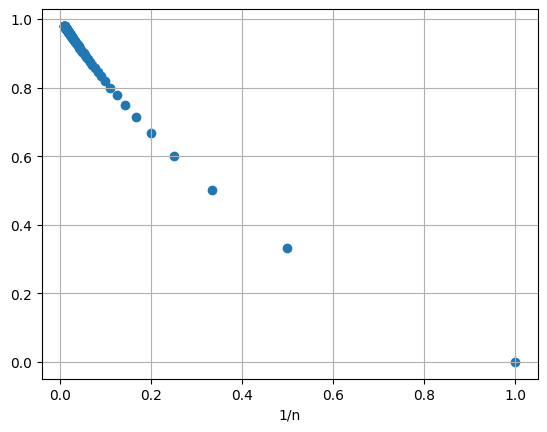
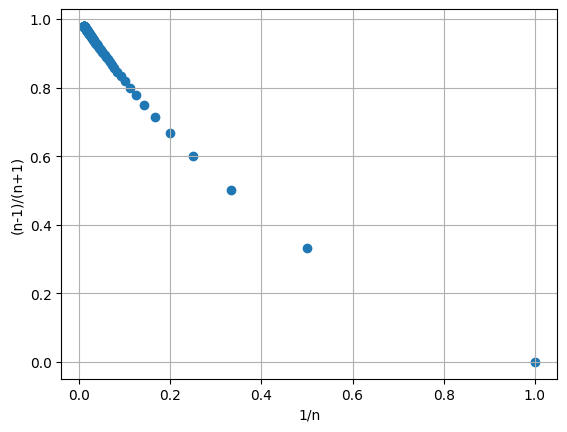
.

diff --git a/NSCI0005/python_book/html/searchindex.js b/NSCI0005/python_book/html/searchindex.js
@@ -1,1 +1,1 @@
-Search.setIndex({docnames:["1_introduction/cocalc","1_introduction/fundamentals","1_introduction/week_1","2_arrays_and_plots/arrays_and_plots","2_arrays_and_plots/arrays_and_plots_2","2_arrays_and_plots/hw_answers","2_arrays_and_plots/projectiles","3_sequences_series/hw4_9511","3_sequences_series/notes","4_taylor_series/hw_a81","4_taylor_series/notes","5_complex_numbers/hw_answers_6836","5_complex_numbers/notes","6_partial_differentiation/hw_oasdg883","6_partial_differentiation/notes","7_odes_1/hw_aitthsg45","7_odes_1/notes","8_odes_2/hw_510736","8_odes_2/notes","intro"],envversion:{"sphinx.domains.c":2,"sphinx.domains.changeset":1,"sphinx.domains.citation":1,"sphinx.domains.cpp":5,"sphinx.domains.index":1,"sphinx.domains.javascript":2,"sphinx.domains.math":2,"sphinx.domains.python":3,"sphinx.domains.rst":2,"sphinx.domains.std":2,"sphinx.ext.intersphinx":1,"sphinxcontrib.bibtex":9,sphinx:56},filenames:["1_introduction/cocalc.md","1_introduction/fundamentals.md","1_introduction/week_1.md","2_arrays_and_plots/arrays_and_plots.ipynb","2_arrays_and_plots/arrays_and_plots_2.md","2_arrays_and_plots/hw_answers.ipynb","2_arrays_and_plots/projectiles.ipynb","3_sequences_series/hw4_9511.ipynb","3_sequences_series/notes.ipynb","4_taylor_series/hw_a81.ipynb","4_taylor_series/notes.ipynb","5_complex_numbers/hw_answers_6836.ipynb","5_complex_numbers/notes.ipynb","6_partial_differentiation/hw_oasdg883.ipynb","6_partial_differentiation/notes.ipynb","7_odes_1/hw_aitthsg45.ipynb","7_odes_1/notes.ipynb","8_odes_2/hw_510736.ipynb","8_odes_2/notes.ipynb","intro.md"],objects:{},objnames:{},objtypes:{},terms:{"0":[1,3,4,5,6,7,8,9,10,11,12,14,15,16,17,18],"0000000000000002j":12,"0000000000000004":12,"00000000e":8,"00763947766738815":9,"01":8,"02":8,"03":8,"04":8,"05":8,"095":3,"0j":12,"0x194c22fd048":16,"0x1aa7ad067c8":8,"0x1ebde029448":11,"0x1f4dcda0308":12,"0x20725333748":15,"0x207253d4748":15,"0x7f042db6d450":[],"0x7f0d24e78cd0":[],"0x7f0d26fa13c0":[],"0x7f15d9bccd60":[],"0x7f15dbcad450":[],"0x7f27cdf11f90":[],"0x7f27cffd1450":[],"0x7f2b71d4cd00":[],"0x7f2b73e6d450":[],"0x7f552fddd450":8,"0x7f678168a6b0":[],"0x7f678373d450":[],"0x7f69f9fa1ff0":[],"0x7f69fc05d3f0":[],"0x7f6d05cbcd60":[],"0x7f6d07ddd450":[],"0x7f6d6a812aa0":17,"0x7f78a5142da0":4,"0x7f84d801a6b0":[],"0x7f84da091450":[],"0x7fb84a672260":[],"0x7fb84c6f1450":[],"0x7fc044a6eec0":[],"1":[0,1,3,4,5,6,7,8,9,11,12,13,14,15,16,18],"10":[1,3,4,5,6,8,14,15,16,18],"100":[0,5,6,7,8,9,10,13,14,17,18],"1000":16,"101":7,"10351562e":8,"11":[3,4,12],"113":3,"115":5,"12":[1,6],"121":3,"12500000e":8,"139":15,"13j":11,"14":4,"15":[3,4,5,8,15,16,18],"155":3,"16":[3,4,11,15],"17":[14,15],"18":4,"180":3,"19":1,"195":3,"197":3,"1a":7,"1b":7,"1c":7,"1j":[11,12],"2":[1,3,4,6,8,10,11,12,13,14,15,16,17,18],"20":[3,7,12,14,17],"200":[3,6],"20871215252208009":1,"21":[3,4],"210":5,"21j":11,"220":5,"22070312e":8,"23":3,"230":5,"24":[0,3,8],"25":[3,4],"25000000e":8,"258":5,"260":5,"262":5,"27":[1,4],"282":1,"2821881254169447":1,"299":1,"2e6":1,"2e9":6,"2m":18,"2x":18,"2y":14,"3":[1,3,4,5,6,7,9,10,12,13,14,15,17,18],"30":3,"305":3,"33333333":8,"34":1,"345":3,"35":[1,3],"365":6,"375":3,"38":3,"384":1,"39":6,"3j":11,"4":[0,1,3,5,6,7,8,10,12],"40":[3,17],"400":6,"4142135623730951":3,"42":3,"44":3,"44140625e":8,"4455":1,"45":[1,3],"46":5,"49":4,"4e6":1,"4mk":18,"5":[1,3,4,6,7,8,10,12,13,14,15,17,18],"50":[4,7,13,15],"500":7,"50000000e":8,"512":1,"52":3,"56":3,"56250000e":8,"5j":11,"5x":1,"6":[1,3,4,6,8,9,10,15],"60":1,"60j":12,"61":3,"63":1,"63e":1,"66666667":8,"69":3,"6e":1,"6i":12,"6j":12,"7":[3,4,6,8,10],"70":1,"7071067811865476":12,"7071067811865476j":12,"7071067811865477":12,"7071067811865477j":12,"71428571":8,"7172926344657":5,"71828":8,"72":8,"74":4,"75":[3,4,8,13],"76562500e":8,"77":3,"77777778":8,"8":[1,3,4,6,8,11,18],"80":18,"81":[3,4,5,6],"81250000e":8,"81818182":[],"83333333":[],"8369701987210297e":[3,4],"84615385":[],"85":1,"855":3,"85714286":[],"85e":1,"86666667":[],"875":8,"88235294":[],"88281250e":8,"88888889":[],"89":3,"89473684":[],"8e6":1,"9":[1,3,4,5,6,8,15],"9047619":[],"90625000e":8,"90909091":[],"91304348":[],"91666667":[],"92":3,"92307692":[],"92592593":[],"92857143":[],"93103448":[],"93333333":[],"93548387":[],"9375":8,"93939394":[],"94117647":[],"94285714":[],"94444444":[],"94594595":[],"94736842":[],"94871795":[],"95":[],"95121951":[],"95238095":[],"95312500e":8,"95348837":[],"95454545":[],"95555556":[],"95652174":[],"95744681":[],"95833333":[],"95918367":[],"96":3,"96078431":[],"96153846":[],"96226415":[],"96296296":[],"96363636":[],"96428571":[],"96491228":[],"96551724":[],"96610169":[],"96666667":[],"96721311":[],"96774194":[],"96825397":[],"96875":8,"96923077":[],"96969697":[],"97014925":[],"97058824":[],"97101449":[],"97142857":[],"97183099":[],"97222222":[],"97260274":[],"97297297":[],"97333333":[],"97368421":[],"97402597":[],"97435897":[],"97468354":[],"975":[],"97530864":[],"97560976":[],"97590361":[],"97619048":[],"97647059":[],"97674419":[],"97701149":[],"97727273":[],"97752809":[],"97777778":[],"97802198":[],"97826087":[],"97849462":[],"9787234":[],"97894737":[],"97916667":[],"97938144":[],"97959184":[],"97979798":[],"98":[],"984375":8,"99":1,"9921875":8,"99609375":8,"99804688":8,"99902344":8,"99951172":8,"99975586":8,"99987793":8,"99993896":8,"\u03b1":1,"case":[1,4],"class":12,"do":[0,1,3,4,6,12],"final":[0,4,6,12,16],"float":[0,3,4],"function":[1,3,4,6,8,10,12,14],"import":[3,5,6,7,8,9,10,11,12,13,14,15,16,17,18],"long":[0,1],"new":[0,6,8],"return":[0,3,4,8],"try":[3,4,8,12,14],A:[0,1,3,4,5,6,10,12,14,16,17,18,19],And:14,As:[3,8],At:[3,16],By:[0,3,4,5,6,10,14,18],For:[0,1,3,4,6,8,10,12,14],If:[0,1,3,4,8,18],In:[1,3,4,8,12,16],It:1,No:[],On:18,One:4,That:[6,16],The:[0,1,3,4,6,8,10,12,14,16,18],Then:[1,3,6,8,16,18],To:[0,1,3,4,6,8],_:1,__counter__:6,__main__:15,__name__:15,a_n:8,abl:[0,1,3,4,8],about:0,abov:[5,6,18],absolu:6,ac:0,acceler:[3,5,6],accept:5,access:[0,3,4,8],accord:5,account:0,accur:[3,5],achiev:6,ad:[0,1,8],add:[0,4,6],addit:[1,3,4,12],address:0,ae:16,after:[0,1,3,4,8,10],ag:1,again:[3,4],against:[1,3,6,8,18],air:5,alia:4,alias:4,align:[3,6,18],all:[0,8,12],allow:[0,3,4,18],alpha:1,alphabet:1,alreadi:0,also:[0,3,4,6,8,18],alwai:[0,12],an:[0,1,3,4,5,6,8,10,12,14,16,18],angl:[5,15,16,18],ani:[0,1,3,4,5,6,16],anoth:[6,12,14,18],answer:[1,4,6,12],anyth:12,appdata:[9,15],appear:[0,1,8],appli:[3,4],appropri:8,approx:[6,8],approxim:[5,10],ar:[0,1,3,4,6,8,12,16,18],arang:[4,6,7,8],arbitrari:[16,18],argand:12,argument:[4,12],arithmet:[3,4],around:6,arrai:[5,8,10,16,18],arrays_and_plot:[3,4],arrow:[0,15,16,18],ask:0,assig:1,assum:6,astronomynot:6,attent:1,attribut:8,attributeerror:8,automat:[0,3,4],avoid:1,awai:0,ax:[4,6,11,12],axhlin:[11,12],axi:[3,5,6,8,10,11,12,16],axvlin:[11,12],b:[1,3,4,6,7,16,17,18],base:[3,4,8],basic:4,becaus:[0,1,3,4,12,16],been:0,befor:[0,1,4,8,12],begin:[1,3,4,6,18],behaviour:8,below:[0,6,8,16],beta:18,better:[3,4,10],between:[0,3,4,5,6],bidma:1,black:[0,11,12],blue:[0,18],bodi:6,book:19,border:0,both:[3,4],bottom:[0,3,4],bracket:[1,4],braket:4,built:4,button:[0,3,4],c:[1,4,9,15],calcul:[1,3,4,6,8,10,12,13,14,18],call:[0,1,3,4,6,8,12],calul:6,can:[0,1,3,4,5,6,8,10,12,14,18],cannon:[3,6],cannot:1,care:4,carri:[1,3,4],cartesian:12,caus:[1,14],cdot:[8,10],cell:[0,1,3,8,12],certainli:8,chang:[0,3,4,6],chapter:4,charact:1,charg:1,check:[1,3,4,6,8,16],choic:4,choos:[0,6],circl:12,circular:6,cla:6,clabel:[13,14],clear:8,clearer:8,click:[0,1,3,4],close:[3,4,6],cloud:0,co:[3,4,5,6,17,18],cocalc:[1,2,3,4],code:[0,1,3,4,5,6,8,10,12,14,18],coeffici:18,collect:[4,8,11,12],color:[11,12],com:[0,6],combin:0,comfort:0,comma:1,command:[0,4],common:[3,4],compar:14,complet:[0,1,3,4,6,8],compris:18,comput:[0,1,4],condit:18,consid:[3,4,8,16],constant:[1,3,4,5,6,16,18],construct:[3,4,6],contain:[0,1,3,4,6,19],continu:0,contour:[13,14],control:1,conveni:4,converg:8,convincingli:8,coordin:[4,5,6,12,16],copi:[0,6],corner:0,correct:5,correctli:5,could:6,cours:[0,4],creat:[0,1,6,8,12,16],cross:4,cs:[13,14],cube:12,cubic_graph:0,cumsum:[7,8],cumul:8,current:0,curv:[0,4,14,16,18],customari:4,customis:4,cut:8,d:[4,6,16,18],dai:6,damp:18,data:[3,4],datapoint:4,decim:4,deduct:5,def:[4,6],defin:[1,3,4,8,12,14,18],definit:[3,4],degre:4,delet:0,denot:12,deriv:16,describ:4,descript:[0,1],detail:6,determin:[1,4,5,12,14],devic:6,di:1,di_by_dt:17,diagram:12,diamet:6,differ:[0,1,4,5,8],dimens:[3,14],direct:[16,18],directli:[0,12],displac:18,displai:[1,3,6,14],displaystyl:[12,16],distanc:[1,5],divid:[9,15],divis:[1,12],doe:[1,3,4,14],doesn:[8,12],don:[0,14],done:[3,4],doubl:1,double_spe:1,down:0,draft:[3,4],dropdown:[3,4],due:[3,5,6],dv_by_dt:18,dx:[15,16],dx_by_dt:18,dy:[15,16],e:[1,3,4,7,8,12,18],each:[1,3,4,5,6,13,14,16,18],earth:[1,6],easi:[8,12],easier:8,either:[3,4],electr:1,element:[3,8],elementari:1,els:12,elsewher:4,email:0,empti:0,encount:[9,15],end:[0,3,4,6,18],endpoint:4,ensur:16,enter:[0,1,3,4],epsilon_0:1,epsilon_0hc:1,equal:[4,6,11,12,16],equat:[1,3,4,6],error:[5,6],esc:0,especi:[3,6],essenti:0,estim:[3,4,6],evalu:[1,12],even:12,evenli:[3,4,6],ever:4,everi:[0,8,12],everyth:[3,4],exact:6,exactli:[3,4],examin:8,exampl:[0,3,4,6,8,10,12,16],except:3,execut:[1,5],exp:[3,4,5,7,11,12,15,16,17],expect:[0,8],experi:[0,4,14],explain:12,explicit:8,explor:0,expon:1,exponent:12,express:[3,4,12],extens:[0,4,8],extract:12,extrem:[3,4],f1:10,f2:10,f3:10,f4:10,f:[9,10,14,16],fact:[3,4],factor:16,factori:7,far:[3,6],featur:0,few:8,fifteen:16,fig:[0,6,13,14],figsiz:[3,6,9,13,14],figur:[0,1,3,6,9,11,12,13,14,17],file:[0,1,6],filenam:6,find:[5,6,16,18],fine:1,finit:[8,10],fire:[3,6],first:[0,1,3,4,6,8,10,18],first_solut:1,firstli:3,firstnam:0,flow:16,fm:1,folder:[0,1,8],follow:[0,1,3,4,5,6,10,12,16],form:[0,12,16],format:0,formula:[1,8],found:[3,4,6],four:3,frac:[1,3,4,6,8,10,12,16,18],fraction:8,frame:6,free:1,from:[0,1,3,4,6,8,14,16,18],funcanim:6,fundament:2,further:[4,5],g:[3,5,6],ganim:6,gather:4,gca:[11,12],gener:[0,1,3,4,6,14,16,18],get:[0,1,6,8,12],gif:6,give:[3,18],given:[1,3,4,6,8,12,16,18],goal:6,good:[1,8],graph:[0,3,4,5,6,8,12,16,18],graviti:[3,5,6],greek:1,green:0,grid:[8,11,12,16,18],ground:[3,5,6],grow:4,gt:[3,6],h:1,ha:[0,3,8,14,16,18],habit:[1,8,12],hand:[0,4],handi:8,happen:[1,3,4],have:[0,4,6,8,18],heavenli:6,height:[3,6],help:[0,1,3],here:[3,4,5,6],high:4,hint:[1,8],hit:[3,5],home:[3,4],homework:7,horizont:[3,6],host:0,how:[1,3,4,6,12],howev:5,htm:6,html:6,http:6,hyperbol:14,i:[12,17],i_0:17,i_app:17,idea:1,ignor:1,illustr:[3,6],imag:[11,12],imagemagick:6,imaginari:12,img:6,immedi:0,includ:[0,4,5,6,8,10,12],incorrectli:6,increas:[3,8],inde:8,indic:0,individu:0,infinit:10,inform:[0,5],infti:8,initi:[3,5,6,18],input:[4,14],inspect:0,instead:[0,8,12],instruct:[3,5,16],instructor:0,integr:16,interest:6,interpret:1,interv:[4,6],introduc:[3,4,6,18],invert:6,investig:8,ipykernel_launch:[9,15],ipynb:[0,1,3,4],ipython:[0,6],its:[0,6,8,10,12],iy:12,j:12,jhz:1,jupyt:[0,3,4],just:[0,6],k:[16,18],keep:[3,4],kei:[0,6],kernel:[3,4],keyword:4,kg:18,known:0,kx:18,ky:16,l:16,label:[3,4,6],languag:[0,1,3,4],larg:[1,8],last:[3,6,8,12,18],lastnam:0,later:1,latter:[3,4],launch:5,ldot:[8,12],left:[0,8,12,16,18],len:6,length:[6,15,16],leq:18,less:[6,8],let:[0,4,6,8,12,16,18],level:[13,14],li:4,lib:[9,15],librari:[0,3,8,12],licens:0,lie:12,light:1,like:[0,1,3,4,6,12],lim_:8,limit:[3,5,6,8,10,11,12,13,14,16],line2d:[4,15,17],line:[0,1,3,4,6,8,12,14,15,16,17],link:[0,6],linspac:[0,3,4,5,6,9,10,13,14,15,16,17,18],linux:0,list:[0,3,4,13,14],liter:1,littl:6,ll:[3,4,6],ln:[3,4],load:3,local:[9,14,15],locat:[1,4],log10:[3,4],log:[0,3,4,9,15],logarithm:[3,4],logist:[4,16],look:[1,12],lot:8,lower:[4,5],m:[1,3,5,6,18],mai:[0,4],main:4,make:[6,8,12],mani:4,mantissa:1,map:14,mark:5,markdown:0,mass:18,materi:19,mathbb:14,mathemat:[1,3,4,12,19],mathrm:[1,3,5,6,16,18],matplotlib:[3,5,6,7,8,9,10,11,12,13,14,15,16,17,18],mechan:[3,6],memori:1,menu:0,mercuri:6,meshgrid:[13,14,15,16,18],mess:0,method:[3,4],metr:[3,6],might:1,million:1,minimum:14,mode:0,model:[3,6],modul:8,modulenotfounderror:[],modulu:12,moon:[1,6],more:[1,4,6,8,10],most:[3,4,8,12,14],motion:[3,6],mous:0,move:0,ms:1,mu:5,much:0,multipl:[1,3,4,12],multipli:[3,8],must:[0,12],n:[6,7,8,12,18],name:[0,3,4,12],nameerror:12,natsciteach:[9,15],natur:[3,4,19],navig:0,nb:5,nearest:6,necessari:5,need:[0,3,4,6,8],never:8,next:[0,3,4,6,10,12,16],note:[1,3,4,12],notebook:[1,3,4,6,8,12],noth:1,now:0,np:[0,3,4,5,6,7,8,9,10,11,12,13,14,15,16,17,18],nsci0005:[0,19],num:3,number:[1,3,4,6,8,10],numer:[1,3],numpi:[5,6,7,8,9,10,11,12,13,14,15,16,17,18],object:[3,6,13,14],obtain:[3,4],od:18,often:1,omega:[17,18],onc:4,one:[1,3,4,6,8,12,18],ones:[15,16],onli:[1,4],onlin:0,open:[0,1,3,4,6],oper:[0,1,3,4,12],operand:[3,4],option:0,orang:18,orbit:6,order:[1,5,18],ordinari:0,organis:[0,3,4],other:[1,3,4],our:[1,6],out:[1,3,4],output:[1,14],own:0,p:[4,6],packag:[6,9,15],page:1,pai:1,pair:14,paraboloid:14,paramet:[4,6,14],part:[1,12],partial:8,pass:4,past:0,pathcollect:[8,11,12],pattern:12,perform:[1,3,4],period:[6,18],permitt:1,person:0,physic:[1,3,6],pi:[0,3,4,5,6,10,11,12],pie:3,place:4,planck:1,planet:6,platform:0,plot:[0,5,6,8,9,10,11,14,15,16,17,18],plt:[0,3,4,5,6,7,8,9,10,11,12,13,14,15,16,17,18],point:[3,4,6,8,14,16,18],portion:4,posit:[3,6,18],power:[1,12],practic:[3,4],pre:0,prefix:4,preinstal:0,press:0,previou:12,previous:3,print:[3,4,6,8,12],probabl:4,problem:[3,8,14],produc:4,program:[0,1,3,4,6,9,15],project:[0,1],projectil:5,prompt:[3,4],pronounc:3,prove:8,provid:4,put:0,py:[9,15],pyplot:[3,4,5,6,7,8,9,10,11,12,13,14,15,16,17,18],python37:[9,15],python:[0,1,3,4,5,6,8,9,10,12,15,16,19],quadrat:1,quantiti:1,question:12,quickest:12,quit:8,quiver:[15,16,18],quot:1,r:[4,14],radian:5,radiu:12,ran:0,randint:6,random:6,rang:[10,16],rather:[0,8],re:[0,3,4,6],reach:[1,6],read:0,reader:1,readi:[3,4],real:[8,11,12],recal:8,recent:[8,12],recognis:4,red:0,reduc:4,regular:1,rel:6,relationship:6,releas:18,remain:16,remaind:3,remov:14,repeatedli:5,repres:[1,6,18],represent:16,request:0,requir:6,resist:5,respect:6,restrict:[4,10],result:[0,1,3,4,5],rewrit:18,right:[8,12,16,18],root:[3,4],rough:4,run:[0,1,3,6],runtimewarn:[9,15],s:[0,1,3,4,5,6,8,12,14,16,18],saddl:14,same:[3,18],satisfi:18,save:6,scale:4,scatter:[6,7,8,11,12],scienc:19,scientif:[3,4],scientist:4,scipi:[7,8],secnd_solut:1,second:[1,3,6,18],section:[0,1,3,6,8,12],see:[0,4,6,8],segment:16,select:[0,3,4],sens:8,sensit:1,separ:[1,3,4,6],seprat:4,sequenc:[3,4,6],set:[0,1,3,5,6,11,12,13,14,16],set_aspect:[11,12],setup:0,shape:[4,15,16],sheet:[3,8,14],shift:0,should:[0,1,3,4,5,6,8,12],show:[0,4,8,14,18],shown:[5,6],signific:1,similar:[0,18],simpl:[3,6],simplifi:1,simul:[3,6],sin:[0,5,6,10,17,18],sinc:[1,8,12],sine:0,singl:[0,1,3,4],site:[0,9,15],size:[4,8],sketch:[4,16],slowli:8,small:[1,16],so:[0,1,4,5,6,8],softwar:[0,3],solar:6,solut:7,solv:16,some:[0,1,8,16],someth:[0,3,4],somewher:4,sp:[7,8],space:[1,3,4,6],special:[7,8],specifi:[4,6],speed:[1,3,5,6],split:0,spring:18,sqrt:[1,3,4,6,7,9,12,15,17,18],squar:[3,4,12],src:6,standard:4,start:[0,1,3,4,6,8],statement:[1,4,8,12],stationari:[14,18],step:[3,4,6,8],stick:1,storag:1,store:[3,4],str:6,straight:[0,12],structur:1,student:[0,5],studi:6,style:4,submiss:5,submit:5,substitut:[16,18],subtract:[1,12],suggest:16,suitabl:[4,5,6],sum:[8,10],sum_:8,sun:6,support:[1,5],suppos:[1,4,8,12,18],sure:[6,12],surfac:14,symbol:[1,12],system:[0,3,4,6,18],t0:4,t1:9,t3:9,t:[0,1,3,4,5,6,8,12,14,17,18],t_0:4,tabl:6,tablesb:6,take:[1,3,4],task:6,taylor:10,term:[8,10],text:[0,1,3,4,7,9,13,14,18],than:[0,1,4,6,8],them:6,therefor:4,theta:5,thi:[0,1,3,4,5,6,8,12,14,16,19],think:12,three:[1,3,14],time:[0,1,3,6,8,18],titl:[0,5,6,18],toolbar:0,top:[0,3,4,8,12],traceback:[8,12],trajectori:[3,6,18],travel:[1,3],trial:[5,6],true_divid:[9,15],truncat:10,turn:0,two:[0,1,3,4,6,8,10,12,16,18],type:[0,3,4,12],u:12,ucl:0,uk:0,undamp:18,under:[3,6],underneath:1,underscor:1,understand:[0,1,8,14],undo:0,unlik:6,until:[6,8],up:[0,11,12],upper:[3,4,8],us:[1,2,5,6,8,10,12,14,16,18],user:[9,15],usual:12,v0:5,v:18,v_0:[3,6],v_0t:[3,6],valu:[1,3,4,5,6,8,10,12,13,14,16,18],variabl:[3,4,6,12,18],varieti:3,variou:12,ve:8,vector:[3,4,18],veloc:[3,6,18],venu:6,veri:[1,4,8],verifi:4,virtual:0,visual:16,visualis:14,w:[11,12],wai:[10,12,14],want:[3,4,12],we:[0,1,3,4,5,6,8,10,12,14,16,18],web:0,week:[0,1,3,4,7,8,14],well:[3,4,10],were:1,wh:[],what:[12,14],when:[0,1,3,4,12],where:[1,4,6,8,16,18],which:[0,1,3,4,6,8,12,14,18],whichev:[3,4],whole:[4,6,8],whose:16,wide:[3,4],width:4,wikipedia:1,within:[0,3,4],won:6,work:[1,3,4,8,12],worksheet:12,workshop:[0,3,4],worri:[0,14],would:[0,1,6,12],write:[1,3,6,10],writer:6,written:0,www:[0,6],x0:[13,14],x:[0,1,3,4,5,6,7,8,9,10,12,13,14,15,16,18],x_mercuri:6,xlabel:[3,4,5,6,7,8,9,18],xlim:[4,5,6,11,12],xy:[15,16,18],y0:[13,14],y1:[15,16],y2:[15,16],y3:16,y:[0,3,4,5,6,8,10,12,13,14,15,16],y_0:[3,6],y_mercuri:6,yet:0,ylabel:[3,4,5,7,9,18],ylabl:8,ylim:[4,5,6,10,11,12,16],you:[4,5,6,12,14],your:[0,1,4,5,6,12,14],z0:11,z1:11,z2:11,z3:11,z:[1,12,13,14],z_2:12,z_3:12,z_4:12,zero:[3,4,6,9,15],zoom:[4,5]},titles:["<span class=\"section-number\">1.1. </span>Using CoCalc","<span class=\"section-number\">1.2. </span>Fundamentals","<span class=\"section-number\">1. </span>Introduction to Computing","<span class=\"section-number\">2. </span>Arrays and Plotting","Arrays and plots","Week 2 Homework Answers","Projectiles","&lt;no title&gt;","<span class=\"section-number\">3. </span>Sequences and Series","Week 5 Homework Solutions","Power Series","Week 3 Homework Solutions","Complex Numbers","Week 6 Homework Solutions","Multivariable Calculus","Week 7 Homework Solutions","Differential Equations I","Week 8 Homework Solutions","Differential Equations II","Introduction"],titleterms:{"2":5,"3":[8,11],"5":9,"6":13,"7":[15,18],"8":17,"import":4,"new":[3,4],anim:6,answer:5,arithmet:[1,12],arrai:[3,4,6],axi:4,calculu:14,cocalc:0,comment:1,complex:12,comput:2,creat:[3,4],differenti:[16,18],edit:0,equat:[16,18],exampl:1,exercis:[3,4,6,8,10,12,14,16,18],express:1,factori:8,field:16,file:[3,4],folder:[3,4],fun:6,fundament:1,further:[3,8],homework:[5,9,11,13,15,17],i:16,ii:18,initi:0,introduct:[2,19],keyboard:0,learn:[0,1,3,8],librari:4,limit:4,matplotlib:4,multivari:14,name:1,notat:1,notebook:0,number:12,numer:4,numpi:[3,4],option:6,orreri:6,phase:18,plane:18,plot:[3,4,12],power:10,practic:1,print:1,problem:18,projectil:[3,6],question:[1,18],rang:4,rule:1,scientif:1,see:18,sequenc:8,seri:[8,10],set:4,shortcut:0,slope:16,solut:[1,3,4,6,8,9,10,11,12,13,14,15,16,17,18],step:0,thi:18,us:[0,3,4],variabl:1,virtual:6,week:[5,9,11,13,15,17,18],what:[0,1,3,8],you:[0,1,3,8]}})
+Search.setIndex({docnames:["1_introduction/cocalc","1_introduction/fundamentals","1_introduction/week_1","2_arrays_and_plots/arrays_and_plots","2_arrays_and_plots/arrays_and_plots_2","2_arrays_and_plots/hw_answers","2_arrays_and_plots/projectiles","3_sequences_series/hw4_9511","3_sequences_series/notes","4_taylor_series/hw_a81","4_taylor_series/notes","5_complex_numbers/hw_answers_6836","5_complex_numbers/notes","6_partial_differentiation/hw_oasdg883","6_partial_differentiation/notes","7_odes_1/hw_aitthsg45","7_odes_1/notes","8_odes_2/hw_510736","8_odes_2/notes","intro"],envversion:{"sphinx.domains.c":2,"sphinx.domains.changeset":1,"sphinx.domains.citation":1,"sphinx.domains.cpp":5,"sphinx.domains.index":1,"sphinx.domains.javascript":2,"sphinx.domains.math":2,"sphinx.domains.python":3,"sphinx.domains.rst":2,"sphinx.domains.std":2,"sphinx.ext.intersphinx":1,"sphinxcontrib.bibtex":9,sphinx:56},filenames:["1_introduction/cocalc.md","1_introduction/fundamentals.md","1_introduction/week_1.md","2_arrays_and_plots/arrays_and_plots.ipynb","2_arrays_and_plots/arrays_and_plots_2.md","2_arrays_and_plots/hw_answers.ipynb","2_arrays_and_plots/projectiles.ipynb","3_sequences_series/hw4_9511.ipynb","3_sequences_series/notes.ipynb","4_taylor_series/hw_a81.ipynb","4_taylor_series/notes.ipynb","5_complex_numbers/hw_answers_6836.ipynb","5_complex_numbers/notes.ipynb","6_partial_differentiation/hw_oasdg883.ipynb","6_partial_differentiation/notes.ipynb","7_odes_1/hw_aitthsg45.ipynb","7_odes_1/notes.ipynb","8_odes_2/hw_510736.ipynb","8_odes_2/notes.ipynb","intro.md"],objects:{},objnames:{},objtypes:{},terms:{"0":[1,3,4,5,6,7,8,9,10,11,12,14,15,16,17,18],"0000000000000002j":12,"0000000000000004":12,"00000000e":8,"00763947766738815":9,"01":8,"02":8,"03":8,"04":8,"05":8,"095":3,"0j":12,"0x194c22fd048":16,"0x1aa7ad067c8":[],"0x1ebde029448":11,"0x1f4dcda0308":12,"0x20725333748":15,"0x207253d4748":15,"0x7f042db6d450":[],"0x7f0d24e78cd0":[],"0x7f0d26fa13c0":[],"0x7f15d9bccd60":[],"0x7f15dbcad450":[],"0x7f27cdf11f90":[],"0x7f27cffd1450":[],"0x7f2b71d4cd00":[],"0x7f2b73e6d450":[],"0x7f552fddd450":[],"0x7f66b1e9a560":8,"0x7f66b3f4d420":8,"0x7f678168a6b0":[],"0x7f678373d450":[],"0x7f69f9fa1ff0":[],"0x7f69fc05d3f0":[],"0x7f6d05cbcd60":[],"0x7f6d07ddd450":[],"0x7f6d6a812aa0":17,"0x7f78a5142da0":4,"0x7f84d801a6b0":[],"0x7f84da091450":[],"0x7fb84a672260":[],"0x7fb84c6f1450":[],"0x7fc044a6eec0":[],"1":[0,1,3,4,5,6,7,8,9,11,12,13,14,15,16,18],"10":[1,3,4,5,6,8,14,15,16,18],"100":[0,5,6,7,8,9,10,13,14,17,18],"1000":16,"101":7,"10351562e":8,"11":[3,4,12],"113":3,"115":5,"12":[1,6],"121":3,"12500000e":8,"139":15,"13j":11,"14":4,"15":[3,4,5,8,15,16,18],"155":3,"16":[3,4,11,15],"17":[14,15],"18":4,"180":3,"19":1,"195":3,"197":3,"1a":7,"1b":7,"1c":7,"1j":[11,12],"2":[1,3,4,6,8,10,11,12,13,14,15,16,17,18],"20":[3,7,12,14,17],"200":[3,6],"20871215252208009":1,"21":[3,4],"210":5,"21j":11,"220":5,"22070312e":8,"23":3,"230":5,"24":[0,3,8],"25":[3,4],"25000000e":8,"258":5,"260":5,"262":5,"27":[1,4],"282":1,"2821881254169447":1,"299":1,"2e6":1,"2e9":6,"2m":18,"2x":18,"2y":14,"3":[1,3,4,5,6,7,9,10,12,13,14,15,17,18],"30":3,"305":3,"33333333":8,"34":1,"345":3,"35":[1,3],"365":6,"375":3,"38":3,"384":1,"39":6,"3j":11,"4":[0,1,3,5,6,7,8,10,12],"40":[3,17],"400":6,"4142135623730951":3,"42":3,"44":3,"44140625e":8,"4455":1,"45":[1,3],"46":5,"49":4,"4e6":1,"4mk":18,"5":[1,3,4,6,7,8,10,12,13,14,15,17,18],"50":[4,7,13,15],"500":7,"50000000e":8,"512":1,"52":3,"56":3,"56250000e":8,"5j":11,"5x":1,"6":[1,3,4,6,8,9,10,15],"60":1,"60j":12,"61":3,"63":1,"63e":1,"66666667":8,"69":3,"6e":1,"6i":12,"6j":12,"7":[3,4,6,8,10],"70":1,"7071067811865476":12,"7071067811865476j":12,"7071067811865477":12,"7071067811865477j":12,"71428571":8,"7172926344657":5,"71828":8,"72":8,"74":4,"75":[3,4,8,13],"76562500e":8,"77":3,"77777778":8,"8":[1,3,4,6,8,11,18],"80":18,"81":[3,4,5,6],"81250000e":8,"81818182":[],"83333333":[],"8369701987210297e":[3,4],"84615385":[],"85":1,"855":3,"85714286":[],"85e":1,"86666667":[],"875":8,"88235294":[],"88281250e":8,"88888889":[],"89":3,"89473684":[],"8e6":1,"9":[1,3,4,5,6,8,15],"9047619":[],"90625000e":8,"90909091":[],"91304348":[],"91666667":[],"92":3,"92307692":[],"92592593":[],"92857143":[],"93103448":[],"93333333":[],"93548387":[],"9375":8,"93939394":[],"94117647":[],"94285714":[],"94444444":[],"94594595":[],"94736842":[],"94871795":[],"95":[],"95121951":[],"95238095":[],"95312500e":8,"95348837":[],"95454545":[],"95555556":[],"95652174":[],"95744681":[],"95833333":[],"95918367":[],"96":3,"96078431":[],"96153846":[],"96226415":[],"96296296":[],"96363636":[],"96428571":[],"96491228":[],"96551724":[],"96610169":[],"96666667":[],"96721311":[],"96774194":[],"96825397":[],"96875":8,"96923077":[],"96969697":[],"97014925":[],"97058824":[],"97101449":[],"97142857":[],"97183099":[],"97222222":[],"97260274":[],"97297297":[],"97333333":[],"97368421":[],"97402597":[],"97435897":[],"97468354":[],"975":[],"97530864":[],"97560976":[],"97590361":[],"97619048":[],"97647059":[],"97674419":[],"97701149":[],"97727273":[],"97752809":[],"97777778":[],"97802198":[],"97826087":[],"97849462":[],"9787234":[],"97894737":[],"97916667":[],"97938144":[],"97959184":[],"97979798":[],"98":[],"984375":8,"99":1,"9921875":8,"99609375":8,"99804688":8,"99902344":8,"99951172":8,"99975586":8,"99987793":8,"99993896":8,"\u03b1":1,"case":[1,4],"class":12,"do":[0,1,3,4,6,12],"final":[0,4,6,12,16],"float":[0,3,4],"function":[1,3,4,6,8,10,12,14],"import":[3,5,6,7,8,9,10,11,12,13,14,15,16,17,18],"long":[0,1],"new":[0,6,8],"return":[0,3,4,8],"try":[3,4,8,12,14],A:[0,1,3,4,5,6,10,12,14,16,17,18,19],And:14,As:[3,8],At:[3,16],By:[0,3,4,5,6,10,14,18],For:[0,1,3,4,6,8,10,12,14],If:[0,1,3,4,8,18],In:[1,3,4,8,12,16],It:1,No:[],On:18,One:4,That:[6,16],The:[0,1,3,4,6,8,10,12,14,16,18],Then:[1,3,6,8,16,18],To:[0,1,3,4,6,8],_:1,__counter__:6,__main__:15,__name__:15,a_n:8,abl:[0,1,3,4,8],about:0,abov:[5,6,18],absolu:6,ac:0,acceler:[3,5,6],accept:5,access:[0,3,4,8],accord:5,account:0,accur:[3,5],achiev:6,ad:[0,1,8],add:[0,4,6],addit:[1,3,4,12],address:0,ae:16,after:[0,1,3,4,8,10],ag:1,again:[3,4],against:[1,3,6,8,18],air:5,alia:4,alias:4,align:[3,6,18],all:[0,8,12],allow:[0,3,4,18],alpha:1,alphabet:1,alreadi:0,also:[0,3,4,6,8,18],alwai:[0,12],an:[0,1,3,4,5,6,8,10,12,14,16,18],angl:[5,15,16,18],ani:[0,1,3,4,5,6,16],anoth:[6,12,14,18],answer:[1,4,6,12],anyth:12,appdata:[9,15],appear:[0,1,8],appli:[3,4],appropri:8,approx:[6,8],approxim:[5,10],ar:[0,1,3,4,6,8,12,16,18],arang:[4,6,7,8],arbitrari:[16,18],argand:12,argument:[4,12],arithmet:[3,4],around:6,arrai:[5,8,10,16,18],arrays_and_plot:[3,4],arrow:[0,15,16,18],ask:0,assig:1,assum:6,astronomynot:6,attent:1,attribut:[],attributeerror:[],automat:[0,3,4],avoid:1,awai:0,ax:[4,6,11,12],axhlin:[11,12],axi:[3,5,6,8,10,11,12,16],axvlin:[11,12],b:[1,3,4,6,7,16,17,18],base:[3,4,8],basic:4,becaus:[0,1,3,4,12,16],been:0,befor:[0,1,4,8,12],begin:[1,3,4,6,18],behaviour:8,below:[0,6,8,16],beta:18,better:[3,4,10],between:[0,3,4,5,6],bidma:1,black:[0,11,12],blue:[0,18],bodi:6,book:19,border:0,both:[3,4],bottom:[0,3,4],bracket:[1,4],braket:4,built:4,button:[0,3,4],c:[1,4,9,15],calcul:[1,3,4,6,8,10,12,13,14,18],call:[0,1,3,4,6,8,12],calul:6,can:[0,1,3,4,5,6,8,10,12,14,18],cannon:[3,6],cannot:1,care:4,carri:[1,3,4],cartesian:12,caus:[1,14],cdot:[8,10],cell:[0,1,3,12],certainli:8,chang:[0,3,4,6],chapter:4,charact:1,charg:1,check:[1,3,4,6,8,16],choic:4,choos:[0,6],circl:12,circular:6,cla:6,clabel:[13,14],clear:8,clearer:8,click:[0,1,3,4],close:[3,4,6],cloud:0,co:[3,4,5,6,17,18],cocalc:[1,2,3,4],code:[0,1,3,4,5,6,8,10,12,14,18],coeffici:18,collect:[4,8,11,12],color:[11,12],com:[0,6],combin:0,comfort:0,comma:1,command:[0,4],common:[3,4],compar:14,complet:[0,1,3,4,6,8],compris:18,comput:[0,1,4],condit:18,consid:[3,4,8,16],constant:[1,3,4,5,6,16,18],construct:[3,4,6],contain:[0,1,3,4,6,19],continu:0,contour:[13,14],control:1,conveni:4,converg:8,convincingli:8,coordin:[4,5,6,12,16],copi:[0,6],corner:0,correct:5,correctli:5,could:6,cours:[0,4],creat:[0,1,6,8,12,16],cross:4,cs:[13,14],cube:12,cubic_graph:0,cumsum:[7,8],cumul:8,current:0,curv:[0,4,14,16,18],customari:4,customis:4,cut:8,d:[4,6,16,18],dai:6,damp:18,data:[3,4],datapoint:4,decim:4,deduct:5,def:[4,6],defin:[1,3,4,8,12,14,18],definit:[3,4],degre:4,delet:0,denot:12,deriv:16,describ:4,descript:[0,1],detail:6,determin:[1,4,5,12,14],devic:6,di:1,di_by_dt:17,diagram:12,diamet:6,differ:[0,1,4,5,8],dimens:[3,14],direct:[16,18],directli:[0,12],displac:18,displai:[1,3,6,14],displaystyl:[12,16],distanc:[1,5],divid:[9,15],divis:[1,12],doe:[1,3,4,14],doesn:[8,12],don:[0,14],done:[3,4],doubl:1,double_spe:1,down:0,draft:[3,4],dropdown:[3,4],due:[3,5,6],dv_by_dt:18,dx:[15,16],dx_by_dt:18,dy:[15,16],e:[1,3,4,7,8,12,18],each:[1,3,4,5,6,13,14,16,18],earth:[1,6],easi:[8,12],easier:8,either:[3,4],electr:1,element:[3,8],elementari:1,els:12,elsewher:4,email:0,empti:0,encount:[9,15],end:[0,3,4,6,18],endpoint:4,ensur:16,enter:[0,1,3,4],epsilon_0:1,epsilon_0hc:1,equal:[4,6,11,12,16],equat:[1,3,4,6],error:[5,6],esc:0,especi:[3,6],essenti:0,estim:[3,4,6],evalu:[1,12],even:12,evenli:[3,4,6],ever:4,everi:[0,8,12],everyth:[3,4],exact:6,exactli:[3,4],examin:8,exampl:[0,3,4,6,8,10,12,16],except:3,execut:[1,5],exp:[3,4,5,7,11,12,15,16,17],expect:[0,8],experi:[0,4,14],explain:12,explicit:8,explor:0,expon:1,exponent:12,express:[3,4,12],extens:[0,4,8],extract:12,extrem:[3,4],f1:10,f2:10,f3:10,f4:10,f:[9,10,14,16],fact:[3,4],factor:16,factori:7,far:[3,6],featur:0,few:8,fifteen:16,fig:[0,6,13,14],figsiz:[3,6,9,13,14],figur:[0,1,3,6,9,11,12,13,14,17],file:[0,1,6],filenam:6,find:[5,6,16,18],fine:1,finit:[8,10],fire:[3,6],first:[0,1,3,4,6,8,10,18],first_solut:1,firstli:3,firstnam:0,flow:16,fm:1,folder:[0,1,8],follow:[0,1,3,4,5,6,10,12,16],form:[0,12,16],format:0,formula:[1,8],found:[3,4,6],four:3,frac:[1,3,4,6,8,10,12,16,18],fraction:8,frame:6,free:1,from:[0,1,3,4,6,8,14,16,18],funcanim:6,fundament:2,further:[4,5],g:[3,5,6],ganim:6,gather:4,gca:[11,12],gener:[0,1,3,4,6,14,16,18],get:[0,1,6,8,12],gif:6,give:[3,18],given:[1,3,4,6,8,12,16,18],goal:6,good:[1,8],graph:[0,3,4,5,6,8,12,16,18],graviti:[3,5,6],greek:1,green:0,grid:[8,11,12,16,18],ground:[3,5,6],grow:4,gt:[3,6],h:1,ha:[0,3,8,14,16,18],habit:[1,8,12],hand:[0,4],handi:8,happen:[1,3,4],have:[0,4,6,8,18],heavenli:6,height:[3,6],help:[0,1,3],here:[3,4,5,6],high:4,hint:[1,8],hit:[3,5],home:[3,4],homework:7,horizont:[3,6],host:0,how:[1,3,4,6,12],howev:5,htm:6,html:6,http:6,hyperbol:14,i:[12,17],i_0:17,i_app:17,idea:1,ignor:1,illustr:[3,6],imag:[11,12],imagemagick:6,imaginari:12,img:6,immedi:0,includ:[0,4,5,6,8,10,12],incorrectli:6,increas:[3,8],inde:8,indic:0,individu:0,infinit:10,inform:[0,5],infti:8,initi:[3,5,6,18],input:[4,14],inspect:0,instead:[0,8,12],instruct:[3,5,16],instructor:0,integr:16,interest:6,interpret:1,interv:[4,6],introduc:[3,4,6,18],invert:6,investig:8,ipykernel_launch:[9,15],ipynb:[0,1,3,4],ipython:[0,6],its:[0,6,8,10,12],iy:12,j:12,jhz:1,jupyt:[0,3,4],just:[0,6],k:[16,18],keep:[3,4],kei:[0,6],kernel:[3,4],keyword:4,kg:18,known:0,kx:18,ky:16,l:16,label:[3,4,6],languag:[0,1,3,4],larg:[1,8],last:[3,6,12,18],lastnam:0,later:1,latter:[3,4],launch:5,ldot:[8,12],left:[0,8,12,16,18],len:6,length:[6,15,16],leq:18,less:[6,8],let:[0,4,6,8,12,16,18],level:[13,14],li:4,lib:[9,15],librari:[0,3,8,12],licens:0,lie:12,light:1,like:[0,1,3,4,6,12],lim_:8,limit:[3,5,6,8,10,11,12,13,14,16],line2d:[4,15,17],line:[0,1,3,4,6,8,12,14,15,16,17],link:[0,6],linspac:[0,3,4,5,6,9,10,13,14,15,16,17,18],linux:0,list:[0,3,4,13,14],liter:1,littl:6,ll:[3,4,6],ln:[3,4],load:3,local:[9,14,15],locat:[1,4],log10:[3,4],log:[0,3,4,9,15],logarithm:[3,4],logist:[4,16],look:[1,12],lot:8,lower:[4,5],m:[1,3,5,6,18],mai:[0,4],main:4,make:[6,8,12],mani:4,mantissa:1,map:14,mark:5,markdown:0,mass:18,materi:19,mathbb:14,mathemat:[1,3,4,12,19],mathrm:[1,3,5,6,16,18],matplotlib:[3,5,6,7,8,9,10,11,12,13,14,15,16,17,18],mechan:[3,6],memori:1,menu:0,mercuri:6,meshgrid:[13,14,15,16,18],mess:0,method:[3,4],metr:[3,6],might:1,million:1,minimum:14,mode:0,model:[3,6],modul:[],modulenotfounderror:[],modulu:12,moon:[1,6],more:[1,4,6,8,10],most:[3,4,12,14],motion:[3,6],mous:0,move:0,ms:1,mu:5,much:0,multipl:[1,3,4,12],multipli:[3,8],must:[0,12],n:[6,7,8,12,18],name:[0,3,4,12],nameerror:12,natsciteach:[9,15],natur:[3,4,19],navig:0,nb:5,nearest:6,necessari:5,need:[0,3,4,6,8],never:8,next:[0,3,4,6,10,12,16],note:[1,3,4,12],notebook:[1,3,4,6,8,12],noth:1,now:0,np:[0,3,4,5,6,7,8,9,10,11,12,13,14,15,16,17,18],nsci0005:[0,19],num:3,number:[1,3,4,6,8,10],numer:[1,3],numpi:[5,6,7,8,9,10,11,12,13,14,15,16,17,18],object:[3,6,13,14],obtain:[3,4],od:18,often:1,omega:[17,18],onc:4,one:[1,3,4,6,8,12,18],ones:[15,16],onli:[1,4],onlin:0,open:[0,1,3,4,6],oper:[0,1,3,4,12],operand:[3,4],option:0,orang:18,orbit:6,order:[1,5,18],ordinari:0,organis:[0,3,4],other:[1,3,4],our:[1,6],out:[1,3,4],output:[1,14],own:0,p:[4,6],packag:[6,9,15],page:1,pai:1,pair:14,paraboloid:14,paramet:[4,6,14],part:[1,12],partial:8,pass:4,past:0,pathcollect:[8,11,12],pattern:12,perform:[1,3,4],period:[6,18],permitt:1,person:0,physic:[1,3,6],pi:[0,3,4,5,6,10,11,12],pie:3,place:4,planck:1,planet:6,platform:0,plot:[0,5,6,8,9,10,11,14,15,16,17,18],plt:[0,3,4,5,6,7,8,9,10,11,12,13,14,15,16,17,18],point:[3,4,6,8,14,16,18],portion:4,posit:[3,6,18],power:[1,12],practic:[3,4],pre:0,prefix:4,preinstal:0,press:0,previou:12,previous:3,print:[3,4,6,8,12],probabl:4,problem:[3,8,14],produc:4,program:[0,1,3,4,6,9,15],project:[0,1],projectil:5,prompt:[3,4],pronounc:3,prove:8,provid:4,put:0,py:[9,15],pyplot:[3,4,5,6,7,8,9,10,11,12,13,14,15,16,17,18],python37:[9,15],python:[0,1,3,4,5,6,8,9,10,12,15,16,19],quadrat:1,quantiti:1,question:12,quickest:12,quit:8,quiver:[15,16,18],quot:1,r:[4,14],radian:5,radiu:12,ran:0,randint:6,random:6,rang:[10,16],rather:[0,8],re:[0,3,4,6],reach:[1,6],read:0,reader:1,readi:[3,4],real:[8,11,12],recal:8,recent:12,recognis:4,red:0,reduc:4,regular:1,rel:6,relationship:6,releas:18,remain:16,remaind:3,remov:14,repeatedli:5,repres:[1,6,18],represent:16,request:0,requir:6,resist:5,respect:6,restrict:[4,10],result:[0,1,3,4,5],rewrit:18,right:[8,12,16,18],root:[3,4],rough:4,run:[0,1,3,6],runtimewarn:[9,15],s:[0,1,3,4,5,6,8,12,14,16,18],saddl:14,same:[3,18],satisfi:18,save:6,scale:4,scatter:[6,7,8,11,12],scienc:19,scientif:[3,4],scientist:4,scipi:[7,8],secnd_solut:1,second:[1,3,6,18],section:[0,1,3,6,8,12],see:[0,4,6,8],segment:16,select:[0,3,4],sens:8,sensit:1,separ:[1,3,4,6],seprat:4,sequenc:[3,4,6],set:[0,1,3,5,6,11,12,13,14,16],set_aspect:[11,12],setup:0,shape:[4,15,16],sheet:[3,8,14],shift:0,should:[0,1,3,4,5,6,8,12],show:[0,4,8,14,18],shown:[5,6],signific:1,similar:[0,18],simpl:[3,6],simplifi:1,simul:[3,6],sin:[0,5,6,10,17,18],sinc:[1,8,12],sine:0,singl:[0,1,3,4],site:[0,9,15],size:[4,8],sketch:[4,16],slowli:8,small:[1,16],so:[0,1,4,5,6,8],softwar:[0,3],solar:6,solut:7,solv:16,some:[0,1,8,16],someth:[0,3,4],somewher:4,sp:[7,8],space:[1,3,4,6],special:[7,8],specifi:[4,6],speed:[1,3,5,6],split:0,spring:18,sqrt:[1,3,4,6,7,9,12,15,17,18],squar:[3,4,12],src:6,standard:4,start:[0,1,3,4,6,8],statement:[1,4,8,12],stationari:[14,18],step:[3,4,6,8],stick:1,storag:1,store:[3,4],str:6,straight:[0,12],structur:1,student:[0,5],studi:6,style:4,submiss:5,submit:5,substitut:[16,18],subtract:[1,12],suggest:16,suitabl:[4,5,6],sum:[8,10],sum_:8,sun:6,support:[1,5],suppos:[1,4,8,12,18],sure:[6,12],surfac:14,symbol:[1,12],system:[0,3,4,6,18],t0:4,t1:9,t3:9,t:[0,1,3,4,5,6,8,12,14,17,18],t_0:4,tabl:6,tablesb:6,take:[1,3,4],task:6,taylor:10,term:[8,10],text:[0,1,3,4,7,8,9,13,14,18],than:[0,1,4,6,8],them:6,therefor:4,theta:5,thi:[0,1,3,4,5,6,8,12,14,16,19],think:12,three:[1,3,14],time:[0,1,3,6,8,18],titl:[0,5,6,18],toolbar:0,top:[0,3,4,8,12],traceback:12,trajectori:[3,6,18],travel:[1,3],trial:[5,6],true_divid:[9,15],truncat:10,turn:0,two:[0,1,3,4,6,8,10,12,16,18],type:[0,3,4,12],u:12,ucl:0,uk:0,undamp:18,under:[3,6],underneath:1,underscor:1,understand:[0,1,8,14],undo:0,unlik:6,until:[6,8],up:[0,11,12],upper:[3,4,8],us:[1,2,5,6,8,10,12,14,16,18],user:[9,15],usual:12,v0:5,v:18,v_0:[3,6],v_0t:[3,6],valu:[1,3,4,5,6,8,10,12,13,14,16,18],variabl:[3,4,6,12,18],varieti:3,variou:12,ve:8,vector:[3,4,18],veloc:[3,6,18],venu:6,veri:[1,4,8],verifi:4,virtual:0,visual:16,visualis:14,w:[11,12],wai:[10,12,14],want:[3,4,12],we:[0,1,3,4,5,6,8,10,12,14,16,18],web:0,week:[0,1,3,4,7,8,14],well:[3,4,10],were:1,wh:[],what:[12,14],when:[0,1,3,4,12],where:[1,4,6,8,16,18],which:[0,1,3,4,6,8,12,14,18],whichev:[3,4],whole:[4,6,8],whose:16,wide:[3,4],width:4,wikipedia:1,within:[0,3,4],won:6,work:[1,3,4,8,12],worksheet:12,workshop:[0,3,4],worri:[0,14],would:[0,1,6,12],write:[1,3,6,10],writer:6,written:0,www:[0,6],x0:[13,14],x:[0,1,3,4,5,6,7,8,9,10,12,13,14,15,16,18],x_mercuri:6,xlabel:[3,4,5,6,7,8,9,18],xlim:[4,5,6,11,12],xy:[15,16,18],y0:[13,14],y1:[15,16],y2:[15,16],y3:16,y:[0,3,4,5,6,8,10,12,13,14,15,16],y_0:[3,6],y_mercuri:6,yet:0,ylabel:[3,4,5,7,8,9,18],ylabl:[],ylim:[4,5,6,10,11,12,16],you:[4,5,6,12,14],your:[0,1,4,5,6,12,14],z0:11,z1:11,z2:11,z3:11,z:[1,12,13,14],z_2:12,z_3:12,z_4:12,zero:[3,4,6,9,15],zoom:[4,5]},titles:["<span class=\"section-number\">1.1. </span>Using CoCalc","<span class=\"section-number\">1.2. </span>Fundamentals","<span class=\"section-number\">1. </span>Introduction to Computing","<span class=\"section-number\">2. </span>Arrays and Plotting","Arrays and plots","Week 2 Homework Answers","Projectiles","&lt;no title&gt;","<span class=\"section-number\">3. </span>Sequences and Series","Week 5 Homework Solutions","Power Series","Week 3 Homework Solutions","Complex Numbers","Week 6 Homework Solutions","Multivariable Calculus","Week 7 Homework Solutions","Differential Equations I","Week 8 Homework Solutions","Differential Equations II","Introduction"],titleterms:{"2":5,"3":[8,11],"5":9,"6":13,"7":[15,18],"8":17,"import":4,"new":[3,4],anim:6,answer:5,arithmet:[1,12],arrai:[3,4,6],axi:4,calculu:14,cocalc:0,comment:1,complex:12,comput:2,creat:[3,4],differenti:[16,18],edit:0,equat:[16,18],exampl:1,exercis:[3,4,6,8,10,12,14,16,18],express:1,factori:8,field:16,file:[3,4],folder:[3,4],fun:6,fundament:1,further:[3,8],homework:[5,9,11,13,15,17],i:16,ii:18,initi:0,introduct:[2,19],keyboard:0,learn:[0,1,3,8],librari:4,limit:4,matplotlib:4,multivari:14,name:1,notat:1,notebook:0,number:12,numer:4,numpi:[3,4],option:6,orreri:6,phase:18,plane:18,plot:[3,4,12],power:10,practic:1,print:1,problem:18,projectil:[3,6],question:[1,18],rang:4,rule:1,scientif:1,see:18,sequenc:8,seri:[8,10],set:4,shortcut:0,slope:16,solut:[1,3,4,6,8,9,10,11,12,13,14,15,16,17,18],step:0,thi:18,us:[0,3,4],variabl:1,virtual:6,week:[5,9,11,13,15,17,18],what:[0,1,3,8],you:[0,1,3,8]}})

diff --git a/NSCI0005/python_book/html/3_sequences_series/notes.html b/NSCI0005/python_book/html/3_sequences_series/notes.html
@@ -453,7 +453,7 @@ a: [0.         0.33333333 0.5        0.6        0.66666667 0.71428571
 </div>
 </div>
 <div class="cell_output docutils container">
-<div class="output text_plain highlight-myst-ansi notranslate"><div class="highlight"><pre><span></span>&lt;matplotlib.collections.PathCollection at 0x7f552fddd450&gt;
+<div class="output text_plain highlight-myst-ansi notranslate"><div class="highlight"><pre><span></span>&lt;matplotlib.collections.PathCollection at 0x7f66b3f4d420&gt;
 </pre></div>
 </div>
 <img alt="../_images/notes_3_1.png" src="../_images/notes_3_1.png" />
@@ -489,19 +489,12 @@ plt.scatter(1/n, a)
 
 plt.grid()
 plt.xlabel(&quot;1/n&quot;)
-plt.ylable(&quot;(n-1)/(n+1)&quot;)
+plt.ylabel(&quot;(n-1)/(n+1)&quot;)
 </pre></div>
 </div>
 </div>
 <div class="cell_output docutils container">
-<div class="output traceback highlight-ipythontb notranslate"><div class="highlight"><pre><span></span><span class="gt">---------------------------------------------------------------------------</span>
-<span class="ne">AttributeError</span><span class="g g-Whitespace">                            </span>Traceback (most recent call last)
-<span class="n">Cell</span> <span class="n">In</span><span class="p">[</span><span class="mi">3</span><span class="p">],</span> <span class="n">line</span> <span class="mi">7</span>
-<span class="g g-Whitespace">      </span><span class="mi">5</span> <span class="n">plt</span><span class="o">.</span><span class="n">grid</span><span class="p">()</span>
-<span class="g g-Whitespace">      </span><span class="mi">6</span> <span class="n">plt</span><span class="o">.</span><span class="n">xlabel</span><span class="p">(</span><span class="s2">&quot;1/n&quot;</span><span class="p">)</span>
-<span class="ne">----&gt; </span><span class="mi">7</span> <span class="n">plt</span><span class="o">.</span><span class="n">ylable</span><span class="p">(</span><span class="s2">&quot;(n-1)/(n+1)&quot;</span><span class="p">)</span>
-
-<span class="ne">AttributeError</span>: module &#39;matplotlib.pyplot&#39; has no attribute &#39;ylable&#39;
+<div class="output text_plain highlight-myst-ansi notranslate"><div class="highlight"><pre><span></span>Text(0, 0.5, &#39;(n-1)/(n+1)&#39;)
 </pre></div>
 </div>
 <img alt="../_images/notes_5_1.png" src="../_images/notes_5_1.png" />
@@ -576,7 +569,7 @@ s: [0.5        0.75       0.875      0.9375     0.96875    0.984375
  0.99987793 0.99993896]
 </pre></div>
 </div>
-<div class="output text_plain highlight-myst-ansi notranslate"><div class="highlight"><pre><span></span>&lt;matplotlib.collections.PathCollection at 0x1aa7ad067c8&gt;
+<div class="output text_plain highlight-myst-ansi notranslate"><div class="highlight"><pre><span></span>&lt;matplotlib.collections.PathCollection at 0x7f66b1e9a560&gt;
 </pre></div>
 </div>
 <img alt="../_images/notes_8_2.png" src="../_images/notes_8_2.png" />
